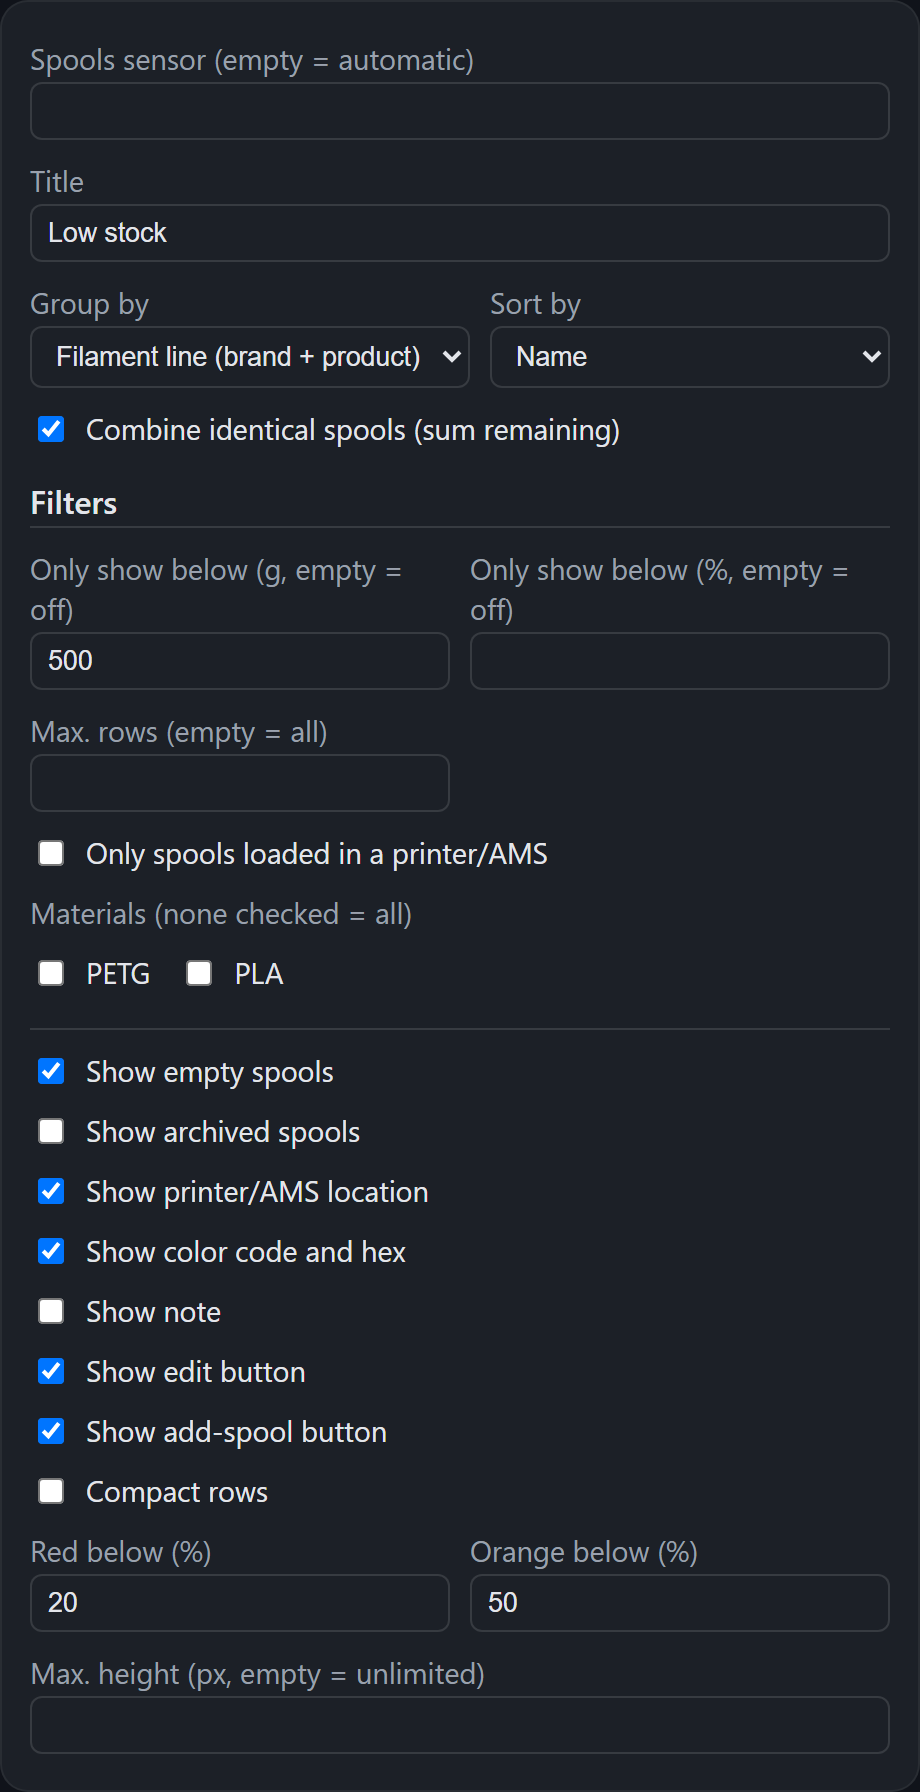
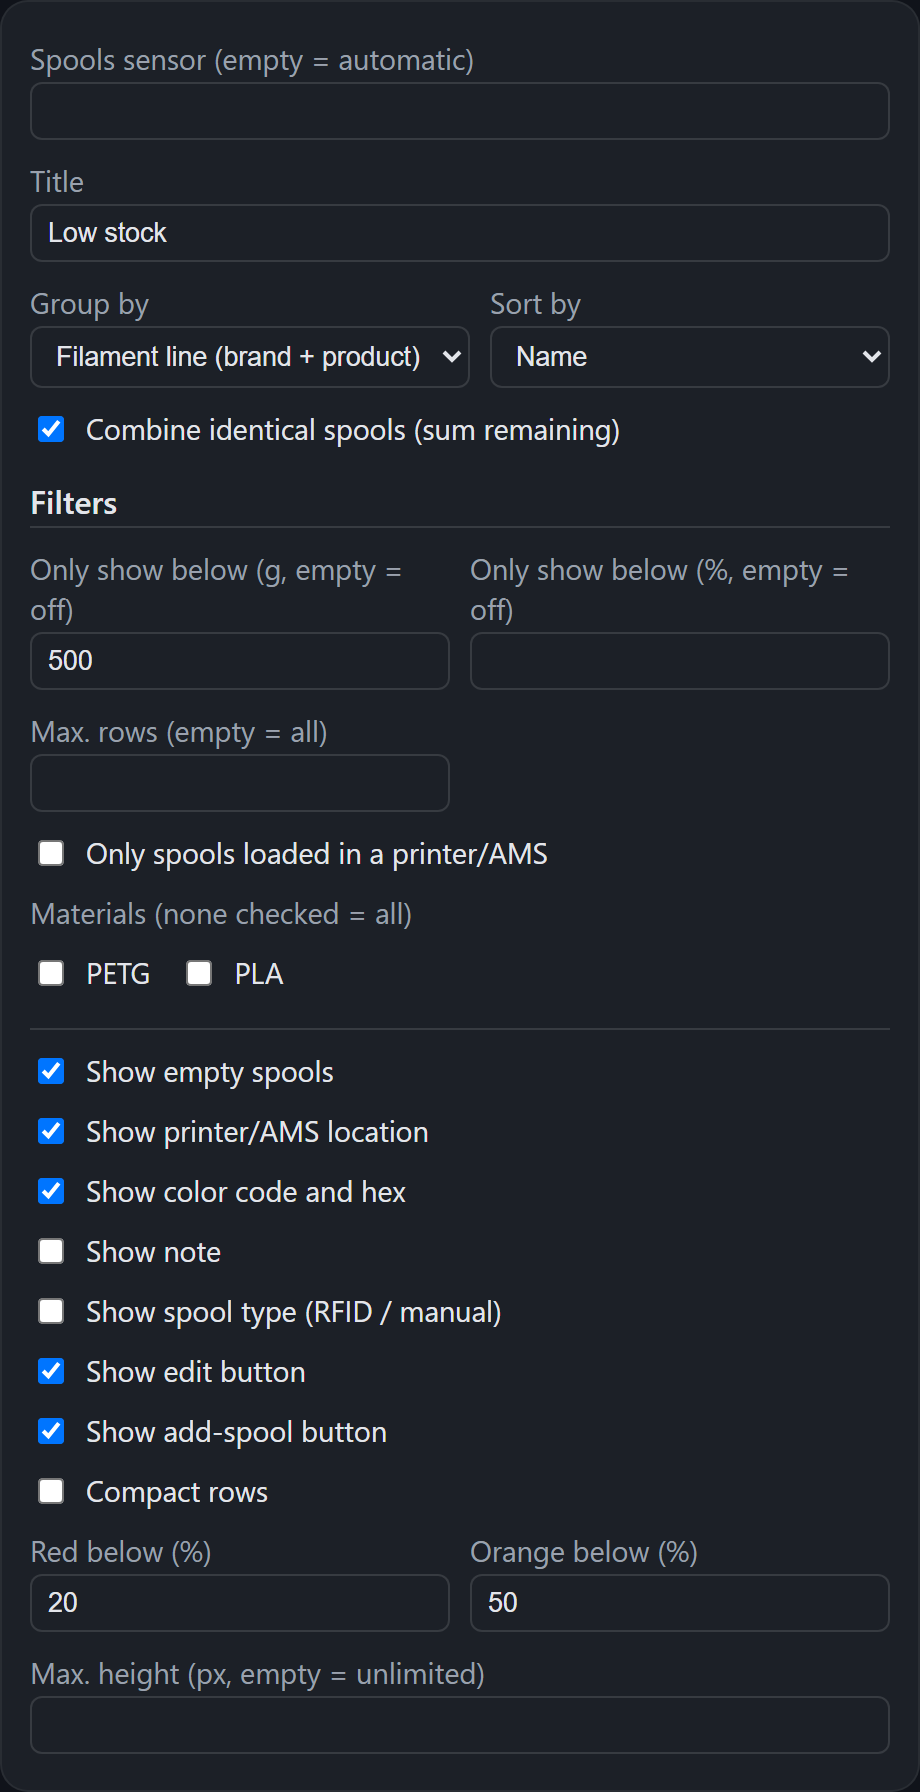
v1.3.0: Studio-style slot labels + RFID/manual type pills
- Card location now mirrors Bambu Studio filament manager exactly:
  printer - AMS model - slot letter (A1-A4, second AMS B1-B4, AMS HT
  HT-A, external holder Ext). Logic verified against BambuStudio
  source (formatSlotLocation, DevAms::GetTrayId, transition_tridid).
- New spool attribute ams_type (cloud amsType, DevAmsType enum) feeds
  the AMS model name (1/6/7=AMS, 2/5=AMS Lite, 3=AMS 2 Pro, 4=AMS HT).
- show_type renames the ams entry method to RFID (it means
  tag-registered, not currently-in-AMS) and renders type as a badge
  pill at the start of the meta line; mixed stacks get one pill per
  type with counts.
- Screenshots regenerated; loaded shot now demonstrates show_type.

Changed region(s): [[0.1826, 0.625, 0.5478, 0.75], [0.0304, 0.6875, 0.0913, 0.7188], [0.0304, 0.625, 0.0913, 0.6562]]

diff --git a/custom_components/bambu_filaments/www/bambu-filaments-card.js b/custom_components/bambu_filaments/www/bambu-filaments-card.js
@@ -50,9 +50,10 @@ const STR = {
     e_show_location: "Show printer/AMS location",
     e_show_code: "Show color code and hex",
     e_show_note: "Show note",
-    e_show_type: "Show spool type (AMS / manual)",
-    type_ams: "AMS",
+    e_show_type: "Show spool type (RFID / manual)",
+    type_ams: "RFID",
     type_manual: "manual",
+    loc_ext: "External",
     e_show_edit: "Show edit button",
     e_show_add: "Show add-spool button",
     e_compact: "Compact rows",
@@ -105,9 +106,10 @@ const STR = {
     e_show_location: "Drucker-/AMS-Position anzeigen",
     e_show_code: "Farbcode und Hex anzeigen",
     e_show_note: "Notiz anzeigen",
-    e_show_type: "Spulentyp anzeigen (AMS / manuell)",
-    type_ams: "AMS",
+    e_show_type: "Spulentyp anzeigen (RFID / manuell)",
+    type_ams: "RFID",
     type_manual: "manuell",
+    loc_ext: "Extern",
     e_show_edit: "Bearbeiten-Button anzeigen",
     e_show_add: "Neue-Spule-Button anzeigen",
     e_compact: "Kompakte Zeilen",
@@ -172,6 +174,44 @@ function esc(s) {
   return String(s ?? "").replace(/[&<>"']/g, (c) => ({
     "&": "&amp;", "<": "&lt;", ">": "&gt;", '"': "&quot;", "'": "&#39;",
   })[c]);
+}
+
+// Maps the cloud's numeric amsType (Studio's DevAmsType enum) to product
+// names - mirrors AMS_TYPE_NAMES in BambuStudio's filament-manager web UI.
+const AMS_TYPE_NAMES = { 1: "AMS", 2: "AMS Lite", 3: "AMS 2 Pro", 4: "AMS HT", 5: "AMS Lite", 6: "AMS", 7: "AMS" };
+
+// Studio-style slot label ("A1".."D4", second AMS = "B1".., AMS HT = "HT-A",
+// external spool holder = null -> caller shows the ext label). Mirrors
+// GetTrayId + transition_tridid in the BambuStudio source: letter is
+// 'A' + amsId, number is slotId + 1.
+function slotLabel(s) {
+  const ams = Number(s.ams_id);
+  const slot = Number(s.slot_id);
+  if (s.slot_id == null || s.slot_id === "" || !Number.isFinite(slot)) return null;
+  if (Number(s.ams_type) === 4 || (Number.isFinite(ams) && ams >= 128)) {
+    const i = ams - 128;
+    return i >= 0 && i < 26 ? `HT-${String.fromCharCode(65 + i)}` : null;
+  }
+  if (!Number.isFinite(ams) || ams < 0 || ams > 25) return `Slot ${slot + 1}`;
+  return `${String.fromCharCode(65 + ams)}${slot + 1}`;
+}
+
+// "A2L · AMS 2 Pro · A1" - same three parts, same order as Bambu Studio's
+// filament manager (formatSlotLocation). extLabel is the localized text for
+// the external spool holder (slotId 255 / amsType 0).
+function locationLabel(s, extLabel) {
+  if (!s.device_name) return null;
+  const isExt = String(s.slot_id) === "255" || Number(s.ams_type) === 0;
+  const parts = [s.device_name];
+  if (isExt) {
+    parts.push(extLabel);
+  } else {
+    const model = AMS_TYPE_NAMES[Number(s.ams_type)];
+    if (model) parts.push(model);
+    const sl = slotLabel(s);
+    if (sl) parts.push(sl);
+  }
+  return parts.join(" · ");
 }
 
 function swatchStyle(spool) {
@@ -269,18 +309,15 @@ class BambuFilamentsCard extends HTMLElement {
       const agg = map.get(key);
       if (!agg) {
         // _spools keeps the original spool objects so an expanded stack can
-        // render (and edit) each physical spool individually.
-        map.set(key, { ...s, _count: 1, _locations: [], _key: key, _spools: [s] });
+        // render (and edit) each physical spool individually - locations are
+        // derived from it at render time (needs the translated ext label).
+        map.set(key, { ...s, _count: 1, _key: key, _spools: [s] });
       } else {
         agg._count += 1;
         agg.remaining_g = (agg.remaining_g || 0) + (s.remaining_g || 0);
         agg.total_g = (agg.total_g || 0) + (s.total_g || 0);
         agg.in_printer = agg.in_printer || s.in_printer;
         agg._spools.push(s);
-      }
-      const rec = map.get(key);
-      if (s.in_printer && s.device_name) {
-        rec._locations.push(`${s.device_name}${s.slot_id != null && s.slot_id !== "" ? ` · Slot ${s.slot_id}` : ""}`);
       }
     }
     return [...map.values()];
@@ -688,30 +725,35 @@ class BambuFilamentsCard extends HTMLElement {
     // The color name is already part of the title in every grouping mode -
     // the meta line only carries code/hex/location/note.
     const meta = [];
-    if (c.show_code && s.bambu_color_code) meta.push(esc(s.bambu_color_code));
-    if (c.show_code && s.color) meta.push(esc(normHex(s.color).slice(0, 7)));
-    if (c.show_location) {
-      if (combined && s._locations?.length) meta.push(s._locations.map(esc).join(", "));
-      else if (s.in_printer && s.device_name) {
-        meta.push(`${esc(s.device_name)}${s.slot_id != null && s.slot_id !== "" ? ` · Slot ${esc(s.slot_id)}` : ""}`);
-      }
-    }
+    // The type pill leads the meta line - trailing it would hide it whenever
+    // the (often long) location list makes the line ellipsize.
     if (c.show_type) {
       const label = (ct) => ct === "ams" ? t.type_ams : ct === "manual" ? t.type_manual : (ct || "?");
+      const pill = (txt) => `<span class="pill">${esc(txt)}</span>`;
       if (combined) {
-        // A stack can mix entry types - "AMS ×5, manuell ×2"; uniform stacks
-        // just show the label (the ×n chip already carries the count).
+        // A stack can mix entry types - "RFID ×5, manuell ×2" as separate
+        // pills; uniform stacks just show the label (the ×n chip already
+        // carries the count).
         const counts = new Map();
         for (const sp of s._spools || []) {
           const k = label(sp.create_type);
           counts.set(k, (counts.get(k) || 0) + 1);
         }
         meta.push([...counts.entries()]
-          .map(([k, n]) => counts.size > 1 ? `${esc(k)} ×${n}` : esc(k))
-          .join(", "));
+          .map(([k, n]) => pill(counts.size > 1 ? `${k} ×${n}` : k))
+          .join(" "));
       } else {
-        meta.push(esc(label(s.create_type)));
+        meta.push(pill(label(s.create_type)));
       }
+    }
+    if (c.show_code && s.bambu_color_code) meta.push(esc(s.bambu_color_code));
+    if (c.show_code && s.color) meta.push(esc(normHex(s.color).slice(0, 7)));
+    if (c.show_location) {
+      const locs = (combined ? s._spools || [] : [s])
+        .filter((sp) => sp.in_printer && sp.device_name)
+        .map((sp) => locationLabel(sp, t.loc_ext))
+        .filter(Boolean);
+      if (locs.length) meta.push(locs.map(esc).join(", "));
     }
     if (c.show_note && !combined && s.note) meta.push(esc(s.note));
     const edit = c.show_edit && !combined
@@ -767,6 +809,9 @@ class BambuFilamentsCard extends HTMLElement {
       .rname { font-weight:500; white-space:nowrap; overflow:hidden; text-overflow:ellipsis; }
       .meta { color:var(--secondary-text-color); font-size:0.82em; white-space:nowrap;
               overflow:hidden; text-overflow:ellipsis; }
+      .pill { display:inline-block; background:var(--secondary-background-color);
+              border:1px solid var(--divider-color); border-radius:9px;
+              padding:0 7px; line-height:1.5; font-size:0.95em; }
       .barbg { height:5px; border-radius:3px; background:var(--secondary-background-color);
                margin-top:4px; overflow:hidden; }
       .compact .barbg { margin-top:2px; height:4px; }

diff --git a/tools/screenshots/harness.html b/tools/screenshots/harness.html
@@ -64,7 +64,7 @@
     remaining_g: remaining, total_g: total, status: 0, note: opts.note || "",
     tray_id_name: "", create_type: "ams",
     in_printer: !!opts.loc, device_name: opts.loc || null,
-    ams_id: 0, slot_id: opts.slot ?? "", ...opts.extra,
+    ams_id: 0, ams_type: opts.loc ? 3 : -1, slot_id: opts.slot ?? "", ...opts.extra,
   });
 
   const spools = [
@@ -130,7 +130,7 @@
       title: "Low stock", group_by: "none", combine: true, sort: "remaining_asc",
       max_remaining_g: 500, compact: true, show_add: false } },
     { id: "loaded", cls: "shot", config: {
-      title: "Loaded right now", group_by: "none", only_in_printer: true, show_add: false } },
+      title: "Loaded right now", group_by: "none", only_in_printer: true, show_type: true, show_add: false } },
   ];
 
   for (const { id, cls, config } of CONFIGS) {

diff --git a/custom_components/bambu_filaments/sensor.py b/custom_components/bambu_filaments/sensor.py
@@ -86,6 +86,7 @@ def spool_attributes(
         "in_printer": spool.get("inPrinter"),
         "device_name": spool.get("deviceName"),
         "ams_id": spool.get("amsId"),
+        "ams_type": spool.get("amsType"),
         "slot_id": spool.get("slotId"),
     }
 

diff --git a/README.md b/README.md
@@ -177,10 +177,10 @@ Everything is also configurable in the **visual editor**, including material fil
 | `only_in_printer` | `false` | Filter: only spools currently loaded in a printer/AMS |
 | `max_items` | – | Cap the number of rows after sorting (top-N list) |
 | `show_empty` | `true` | Include spools with 0 g left. When off, empty spools are removed before `combine` merges stacks, so a ×n stack shrinks to its non-empty members |
-| `show_location` | `true` | Show printer/AMS slot for mounted spools |
+| `show_location` | `true` | Show where a mounted spool sits, in Bambu Studio notation: printer · AMS model · slot (e.g. `A2L · AMS 2 Pro · A1`; second AMS = B1–B4, AMS HT = `HT-A`, external holder = `External`) |
 | `show_code` | `true` | Show Bambu color code and hex |
 | `show_note` | `false` | Show the spool note |
-| `show_type` | `false` | Show how each spool entered the library — registered by the AMS or created manually; combined stacks show the mix (e.g. `AMS ×5, manual ×2`) |
+| `show_type` | `false` | Badge showing how each spool entered the library — `RFID` (tag-registered by the AMS) or `manual`; combined stacks show the mix (e.g. `RFID ×5` `manual ×2`) |
 | `show_edit` | `true` | Cog icon per row that opens the edit dialog (rename, weights, color, profile, note — and delete from the cloud) |
 | `show_add` | `true` | "Add spool" button that opens an in-card dialog (vendor, material, product line, color picker, weights) — for third-party spools too |
 | `compact` | `false` | Slimmer rows without the meta line |
